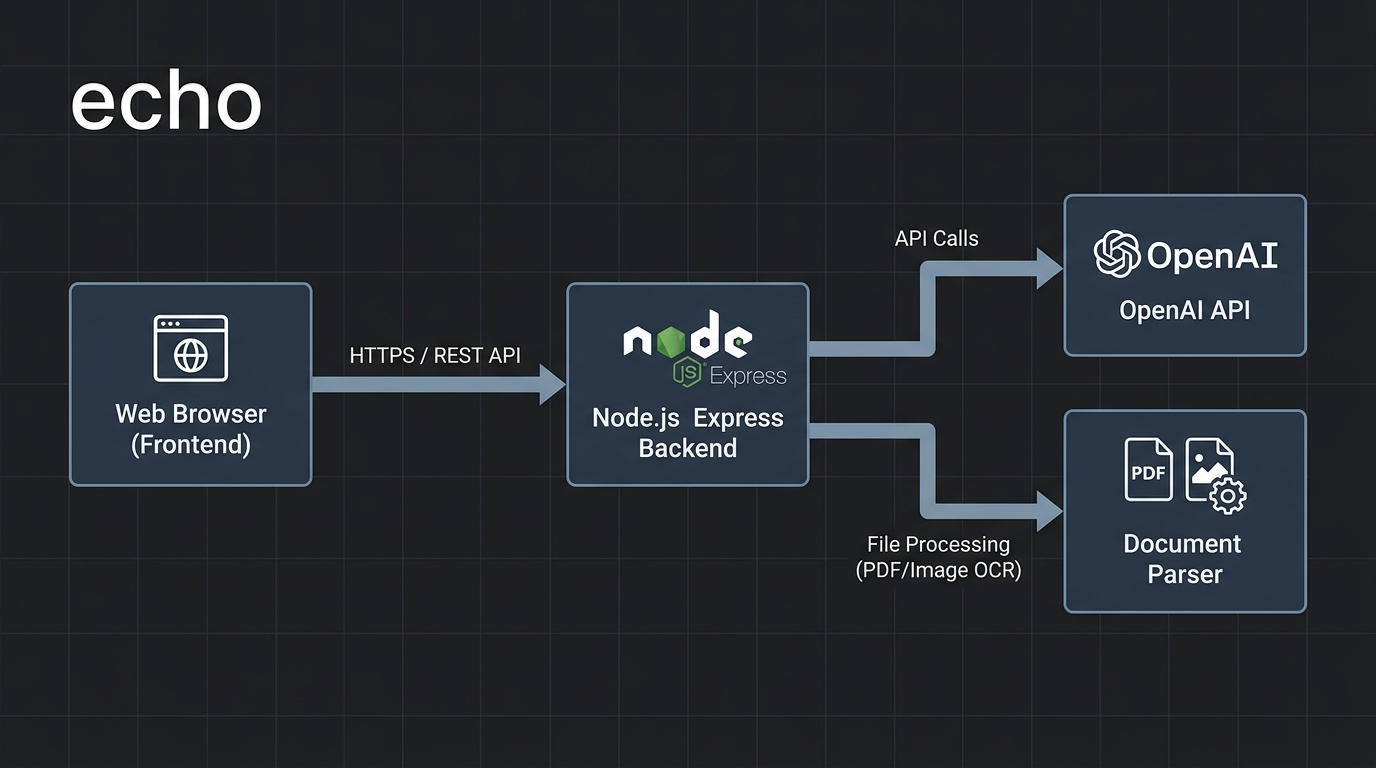
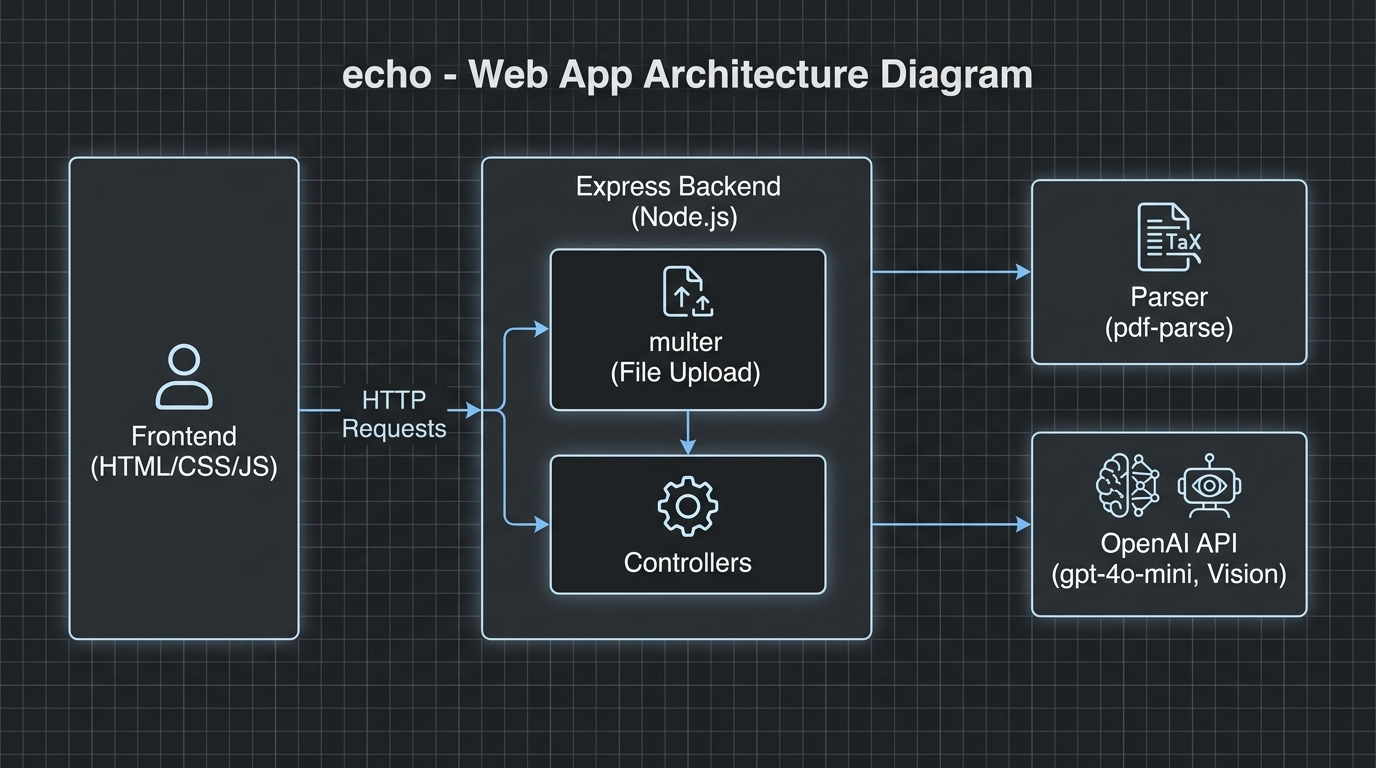
docs: update architecture documentation and add detailed application workflow to README and block diagram

diff --git a/README.md b/README.md
@@ -10,16 +10,23 @@
 
 The application follows a simple client-server architecture:
 
-1. **Frontend (User Interface):** A responsive HTML/CSS/JS interface where users can upload PDFs or Images. It handles drag-and-drop uploads, maintains a history of past analyses, and visually displays the AI feedback, scores, and rewrites.
-2. **Backend (Node.js & Express):** The central server that processes API requests. It handles file uploads, routes tasks, and orchestrates calls to external services.
-3. **Document Parser:** Extracts raw text from uploaded files.
-   - Parses PDFs using `pdf-parse`.
-   - Uses **OpenAI Vision** (`gpt-4o-mini`) to perform high-accuracy Optical Character Recognition (OCR) on graphical images and posters.
-4. **OpenAI API Integration:** The core intelligence layer. It uses large language models to:
-   - **Classify:** Determine content category, tone, and generate summaries.
-   - **Score & Edit:** Evaluate text on Grammar, Clarity, Engagement, and Tone Fit. Suggests specific structural edits and predicts a revised score.
-   - **Rewrite:** Generate platform-specific posts for Twitter (X), LinkedIn, and Instagram.
-   - **Suggest:** Provide optimal posting times, hashtags, and background audio moods.
+1. **Frontend (User Interface):** A responsive HTML/CSS/JS interface where users can upload PDFs or Images.
+2. **Backend (Node.js & Express):** The central server that processes API requests, handles file uploads via `multer`, and routes tasks to the controllers.
+3. **Document Parser:** Extracts raw text from uploaded files using `pdf-parse` (for PDF documents) and OpenAI Vision via `gpt-4o-mini` (for Image OCR).
+4. **OpenAI API Integration:** The core intelligence layer powered by `gpt-4o-mini`.
+
+## 🔄 Full Application Workflow
+
+When a user interacts with **echo**, the application processes the data through a sequential pipeline:
+
+1. **Upload Phase:** The user uploads a PDF or Image (like a marketing poster) via the Frontend. The file is sent as `multipart/form-data` to the Backend, where `multer` temporarily saves it to the `uploads/` directory.
+2. **Extraction Phase:** The Backend determines the MIME type. If it's a PDF, `pdf-parse` extracts the text. If it's an image, the file is converted to Base64 and sent to the OpenAI Vision API (`gpt-4o-mini`) to perform high-accuracy Optical Character Recognition (OCR). The raw extracted text is returned.
+3. **Classification Phase:** The extracted text is sent to the OpenAI API (`gpt-4o-mini`) with a strict JSON format constraint to determine the content's **Category** (e.g., ADVERTISEMENT), **Tone**, and a short summary.
+4. **Scoring Phase:** The backend sends the text and the newly discovered classification context back to the OpenAI API. The AI acts as an expert copy editor, returning a quality score (0-100), a breakdown across Grammar, Clarity, Engagement, and Tone Fit, and up to 5 suggested inline edits. 
+    - *Revision Loop:* If the user is uploading a revision to a previously scored document, the backend also passes the previous score and suggestions. The AI evaluates if the changes were applied and boosts the score accordingly.
+5. **Rewrites Phase:** The OpenAI API generates platform-specific, optimized rewrites of the text for Twitter (X), LinkedIn, and Instagram.
+6. **Suggestions Phase:** The OpenAI API generates creative suggestions, including best posting times, hashtags, and a suggested background audio mood for reels/shorts.
+7. **Display Results:** The Backend compiles all the JSON responses and sends them back to the Frontend. The UI updates dynamically, rendering the score charts, the exact text diffs (old vs new suggestions), and the platform rewrites.
 
 ---
 
